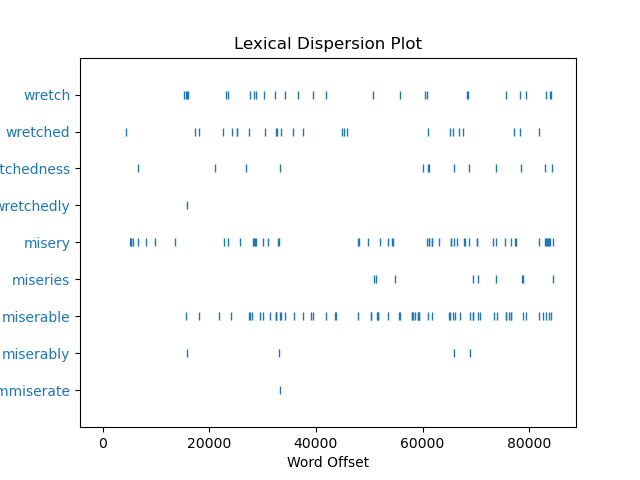
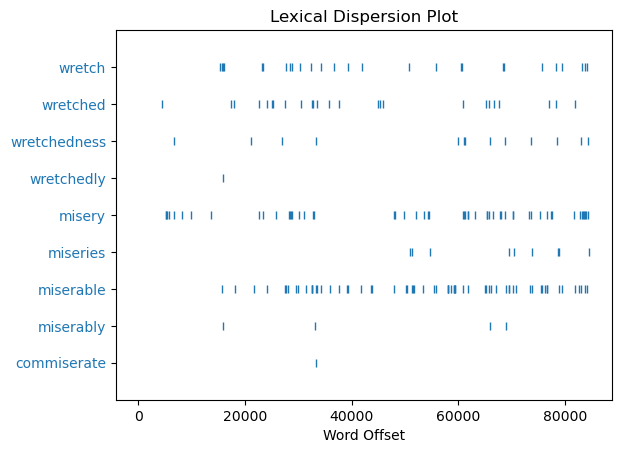
Stemming finished

diff --git a/README.md b/README.md
@@ -120,8 +120,8 @@ This helps the dictionary stay smaller (it doesn't need every single inflection 
 
 We can use this in our code by using stemmers.
 
-### How to use a Stemmer
-It's easier to see the effectiveness of stemming in action with a significantly larger example than the song lyrics or short sentences I've been using so far. So I will be loading my favorite book into Python, and using regular expressions to clean it up
+### Setting up to use a stemmer
+It's easier to see the effectiveness of stemming in action with a significantly larger example than the song lyrics or short sentences I've been using so far. So I will be loading my favorite book into Python, and using regular expressions to clean it up.
 
 > ```python
 > # Regular expressions, used to trim string
@@ -163,10 +163,73 @@ text_frank = nltk.Text(tokens)
 To show off what exactly we can do now, let's generate a plot of every time words related to *wretch* or *misery* come up in the text:
 > ```python
 > import pylab
-> 
-> text_frank.dispersion_plot(['wretch', 'wretched', 'wretchedness', 'wretchedly', 'misery', 'miseries', 'miserable', 'miserably', 'commiserate'])
+>
+> dalet = ['wretch', 'wretched', 'wretchedness', 'wretchedly', 'misery', 'miseries', 'miserable', 'miserably', 'commiserate']
+> text_frank.dispersion_plot(dalet)
 > ```
 > ![image](/images/unstemmed_disp.png)
+
+It would be nice if we could just group those words together. Let's try using a stemmer to reduce the words to stems.
+
+### Using a stemmer
+
+First up, let's try using LancasterStemmer on our list of tokens
+> ```python
+> from nltk.stem.lancaster import LancasterStemmer
+> 
+> stemmer = LancasterStemmer()
+> [(tok, stemmer.stem(tok)) for tok in dalet]
+> ```
+> ```python
+> # output
+> [('wretch', 'wretch'),
+>  ('wretched', 'wretch'),
+>  ('wretchedness', 'wretch'),
+>  ('wretchedly', 'wretch'),
+>  ('misery', 'misery'),
+>  ('miseries', 'misery'),
+>  ('miserable', 'mis'),
+>  ('miserably', 'mis'),
+>  ('commiserate', 'com')]
+> ```
+This stemmer has reduced all of the *wretched* words into the `wretch` stem, but the *miserable* words are spread across `misery`, `mis`, and `com`. 
+
+We have to weigh whether or not we want to use this stemmer now. It's really unfortunate that *miserable* got reduced into `mis`, and *commiserate* into `com`. Your mileage may vary with stemming, so let's give this one a try on our whole book and see how that affects things.
+
+> ```python
+> lanc_stemmed_tokens = [stemmer.stem(tok) for tok in tokens]
+> lanc_stemmed_tokens[15250:15278]
+> ```
+> ```python
+> # Output
+> ['how', 'can', 'i', 'describ', 'my', 'emot', 'at', 'thi', 
+>  'catastroph', ',', 'or', 'how', 'delin', 'the', 'wretch', 'whom', 
+>  'with', 'such', 'infinit', 'pain', 'and', 'car', 'i', 'had', 
+>  'endeavo', 'to', 'form', '?']
+> ```
+
+This doesn't look too bad! Let's generate a distribution plot for the stems we produced.
+
+> ```python
+> lanc_stemmed_text_frank = nltk.Text(lanc_stemmed_tokens)
+> lanc_stemmed_text_frank.dispersion_plot(['wretch', 'misery', 'mis', 'com'])
+> ```
+> ![image](/images/lancstemmed_disp.png)
+
+> ```python
+> len(lanc_stemmed_text_frank.vocab()), len(text_frank.vocab())
+> ```
+> ```python
+> #output
+> (4000, 6826)
+> ```
+
+At a glance, we can see that the stem `wretch` does a great job at uniting its related words. `misery` seems good enough as well. Overall `mis` seems fine, though we'd better be careful because it might have too much since it's so heavily reduced.
+
+But `com` is clearly grabbing far more words than just *commiserate*... This stemmer does a great job at reducing the vocabulary of our book (it decreased the book's number of unique tokens from 6826 to 4000), but it overdid it in my opinion.
+
+For a more thorough approach to tackling this problem, we should look at Lemmatization.
+
 ## What is Lemmatization?
 Let's take a large step back from the world of programming and think about language. Grab a dictionary, and you'll find that there's usually one entry that unites all of the forms of a word
 
